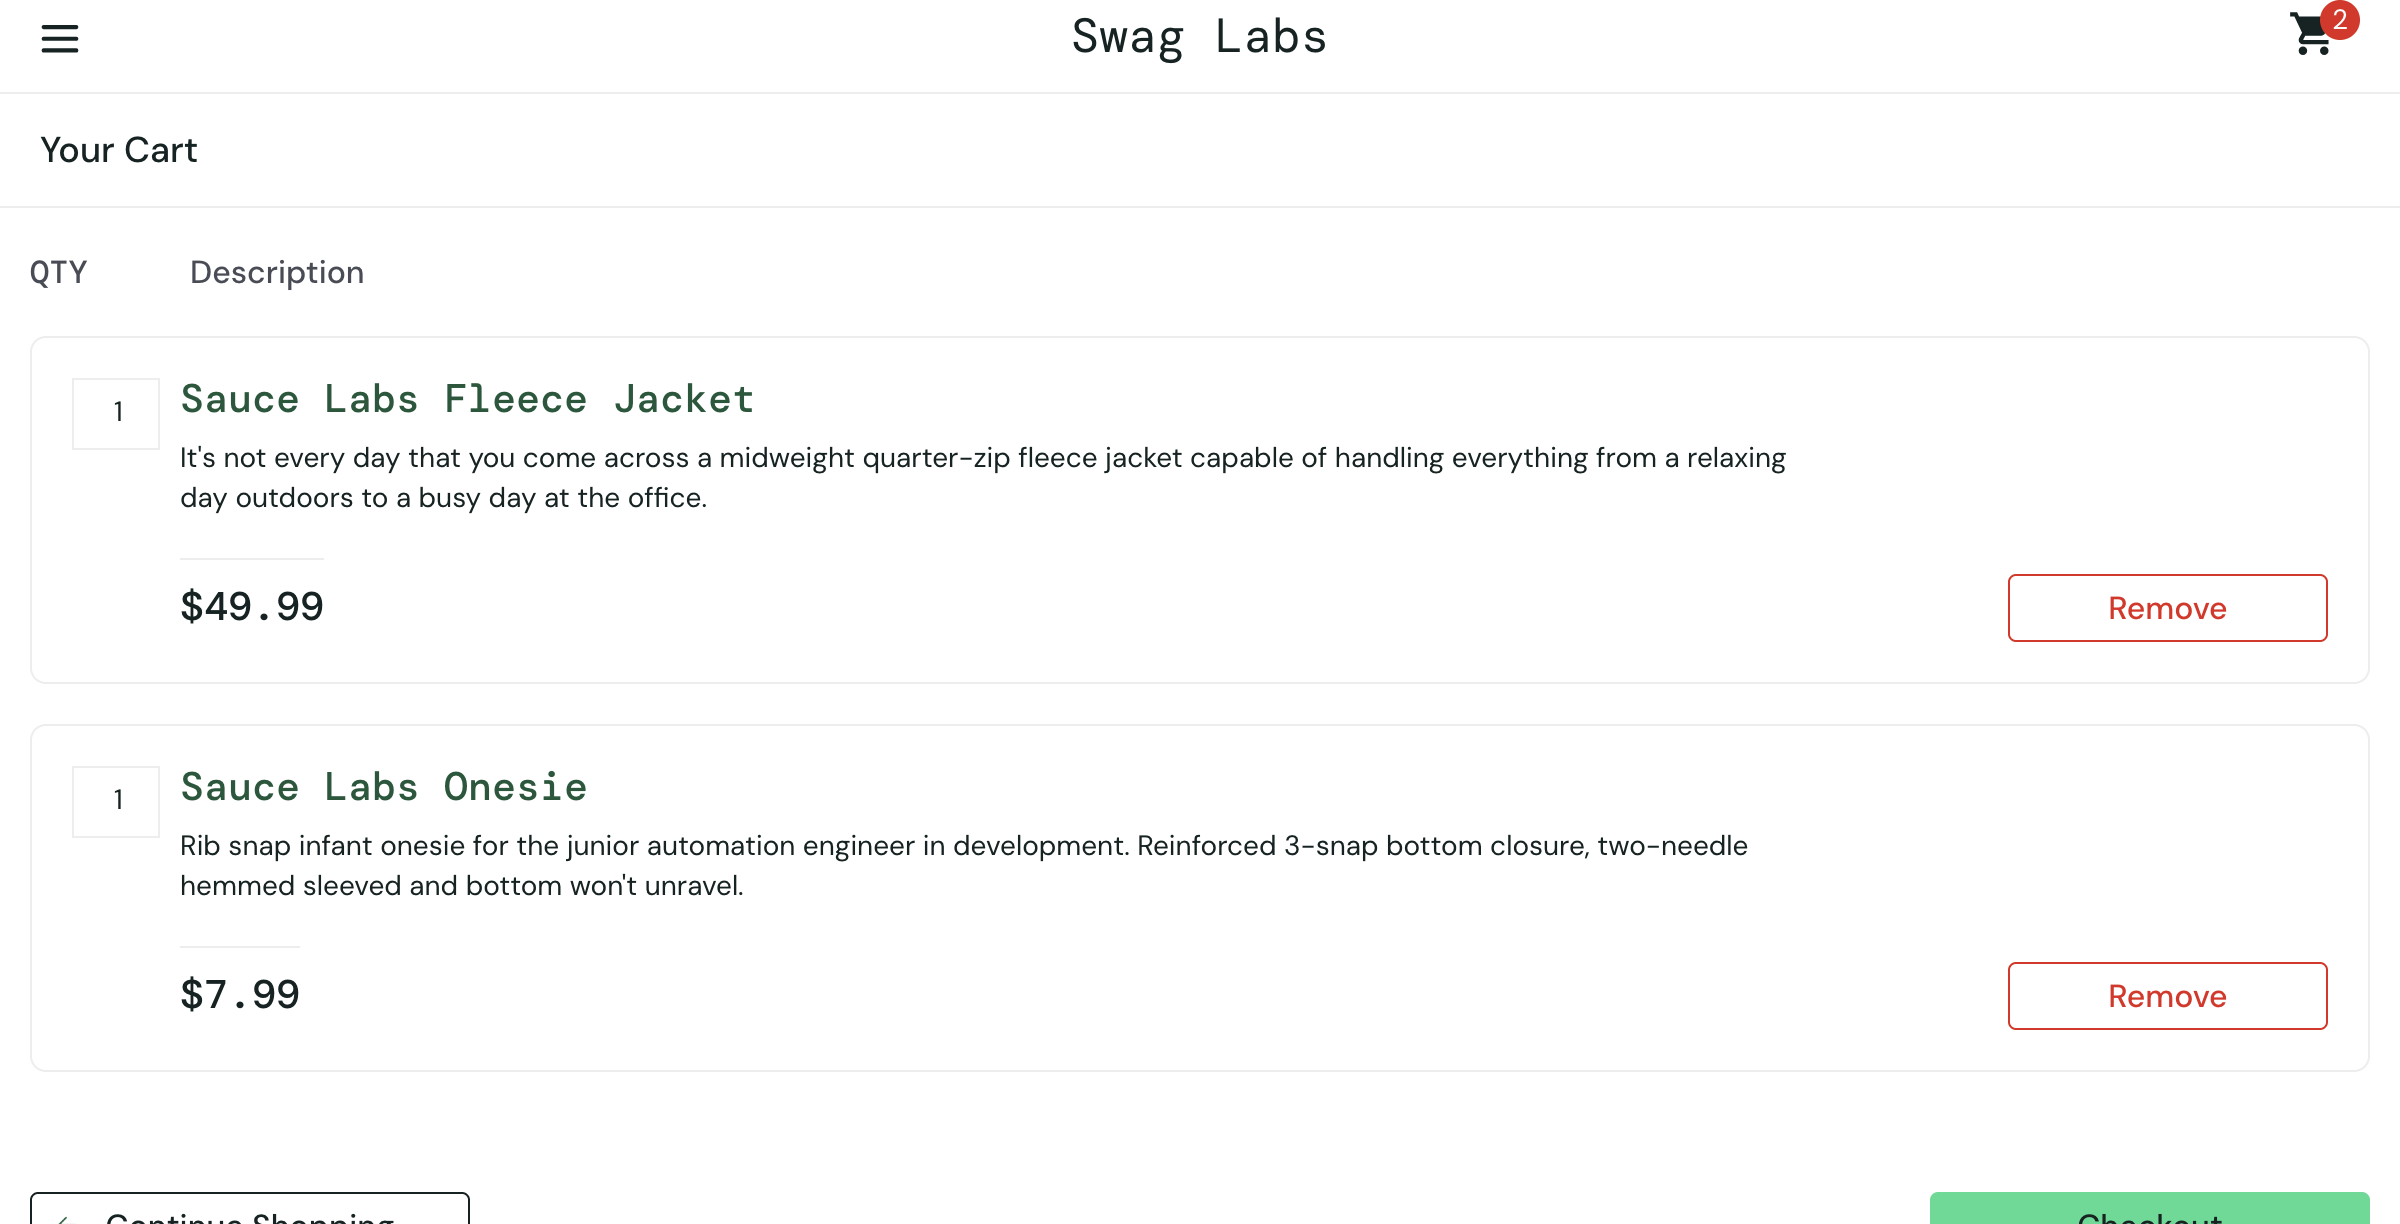
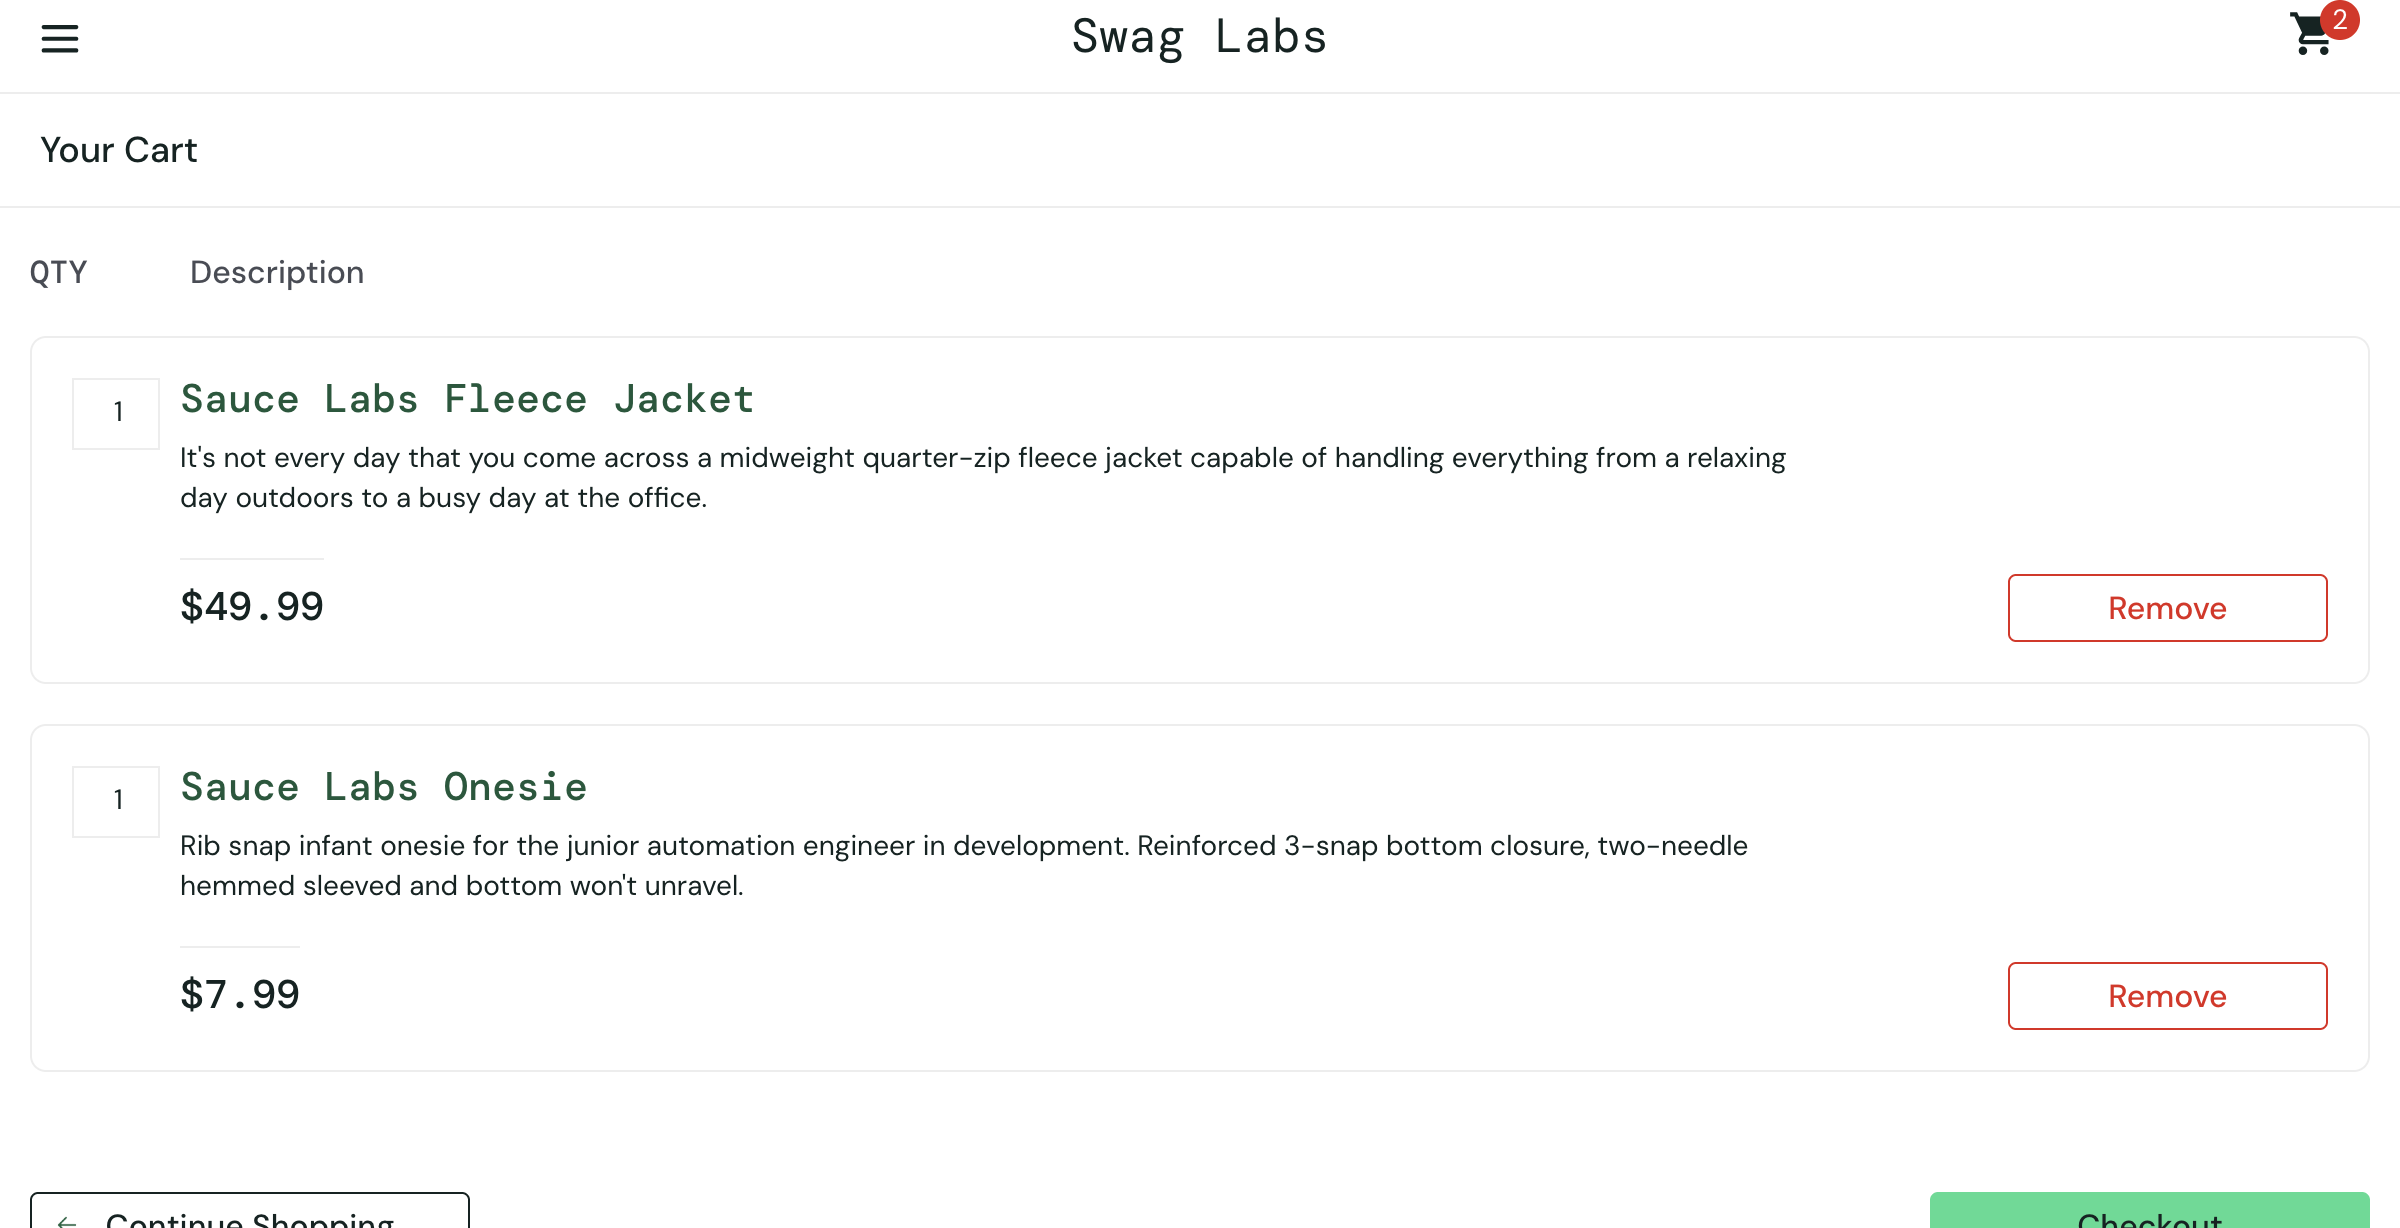
...

diff --git a/test_price.py b/test_price.py
@@ -1,0 +1,56 @@
+
+from selenium import webdriver
+from selenium.webdriver.chrome.service import Service
+from selenium.webdriver.common.by import By
+from webdriver_manager.chrome import ChromeDriverManager
+from selenium.webdriver.chrome.options import Options
+import time
+
+def test_warenkorb():
+
+    chrome_options = Options()
+    chrome_options.add_argument("--incognito")
+
+    chrome_options.add_experimental_option("prefs", {
+        "credentials_enable_service": False,
+        "profile.password_manager_enabled": False
+    })
+
+    chrome_options.add_argument("--disable-features=PasswordCheck,SafeBrowsingEnhancedProtection")
+    chrome_options.add_argument("--no-first-run")
+
+    driver = webdriver.Chrome(
+        service=Service(ChromeDriverManager().install()),
+        options=chrome_options
+    )
+
+    driver.get("https://www.saucedemo.com")
+    driver.find_element(By.ID, "user-name").send_keys("standard_user")
+    driver.find_element(By.ID, "password").send_keys("secret_sauce")
+    driver.find_element(By.ID, "login-button").click()
+    time.sleep(5)
+
+    try:
+        driver.switch_to.alert.accept()
+    except:
+        pass
+
+    time.sleep(1)
+    driver.find_element(By.ID, "add-to-cart-sauce-labs-fleece-jacket").click()
+    driver.find_element(By.ID, "add-to-cart-sauce-labs-onesie").click()
+    time.sleep(1)
+    driver.find_element(By.XPATH, '//*[@data-test="shopping-cart-badge"]').click()
+    
+    time.sleep(1)
+    preise = driver.find_elements(By.XPATH, '//*[@data-test="inventory-item-price"]')
+    
+
+    try:
+         assert preise[0].text == "$49.99" 
+         assert preise[1].text == "$7.99"
+    except AssertionError:
+        driver.save_screenshot("fehler_warenkorb.png")
+        raise
+    finally:
+        driver.save_screenshot("check_warenkorb.png")
+        driver.quit()